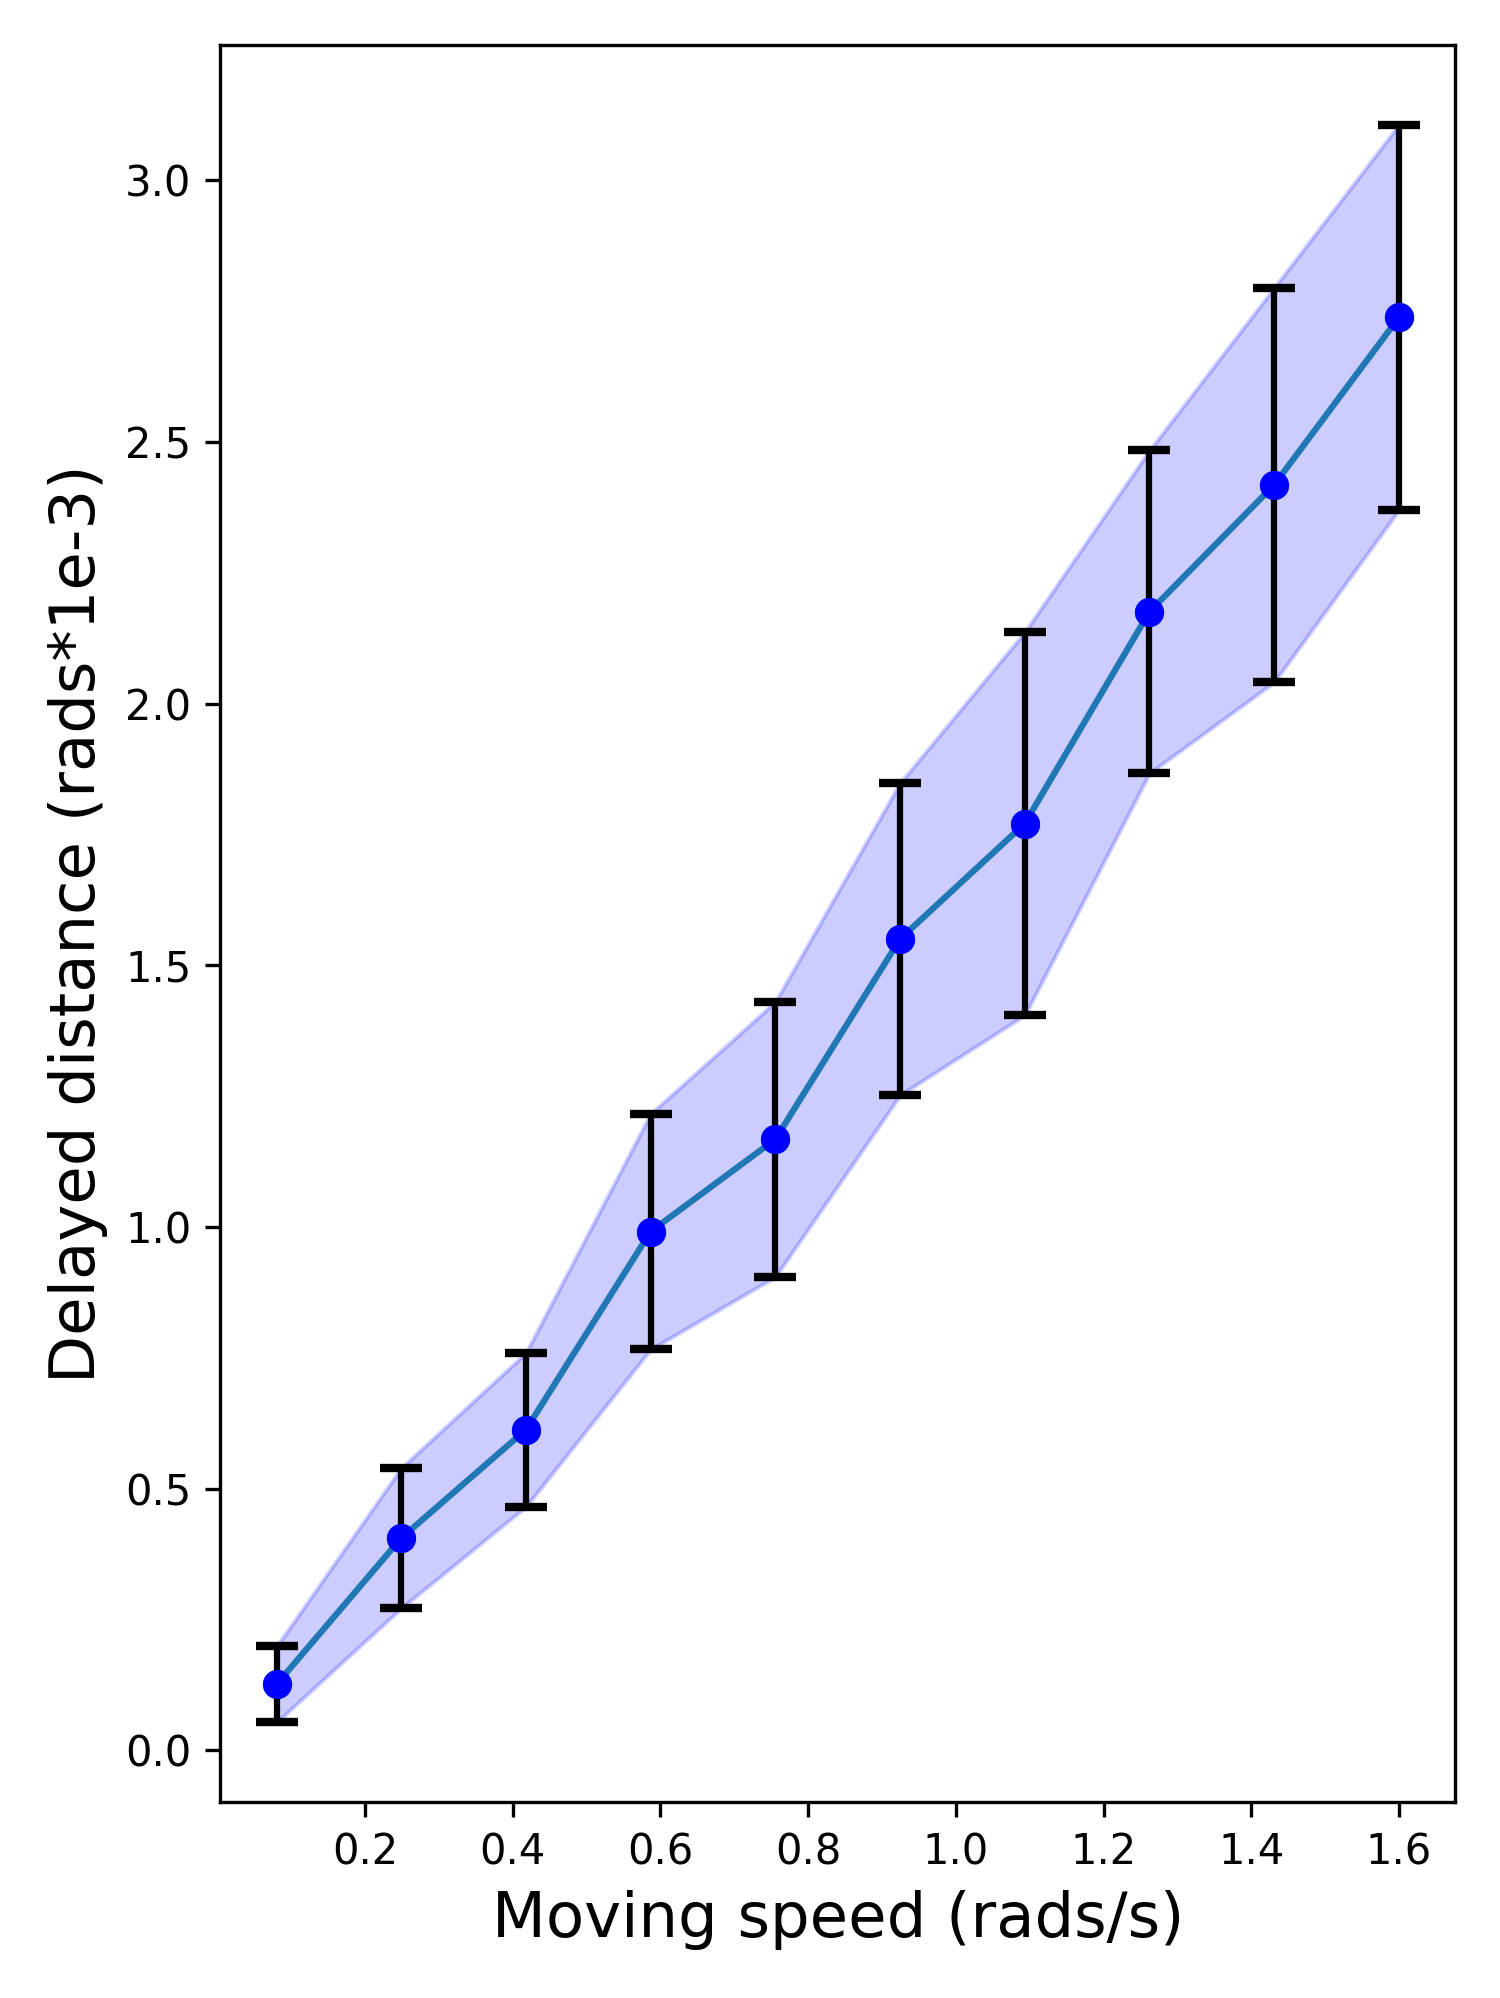
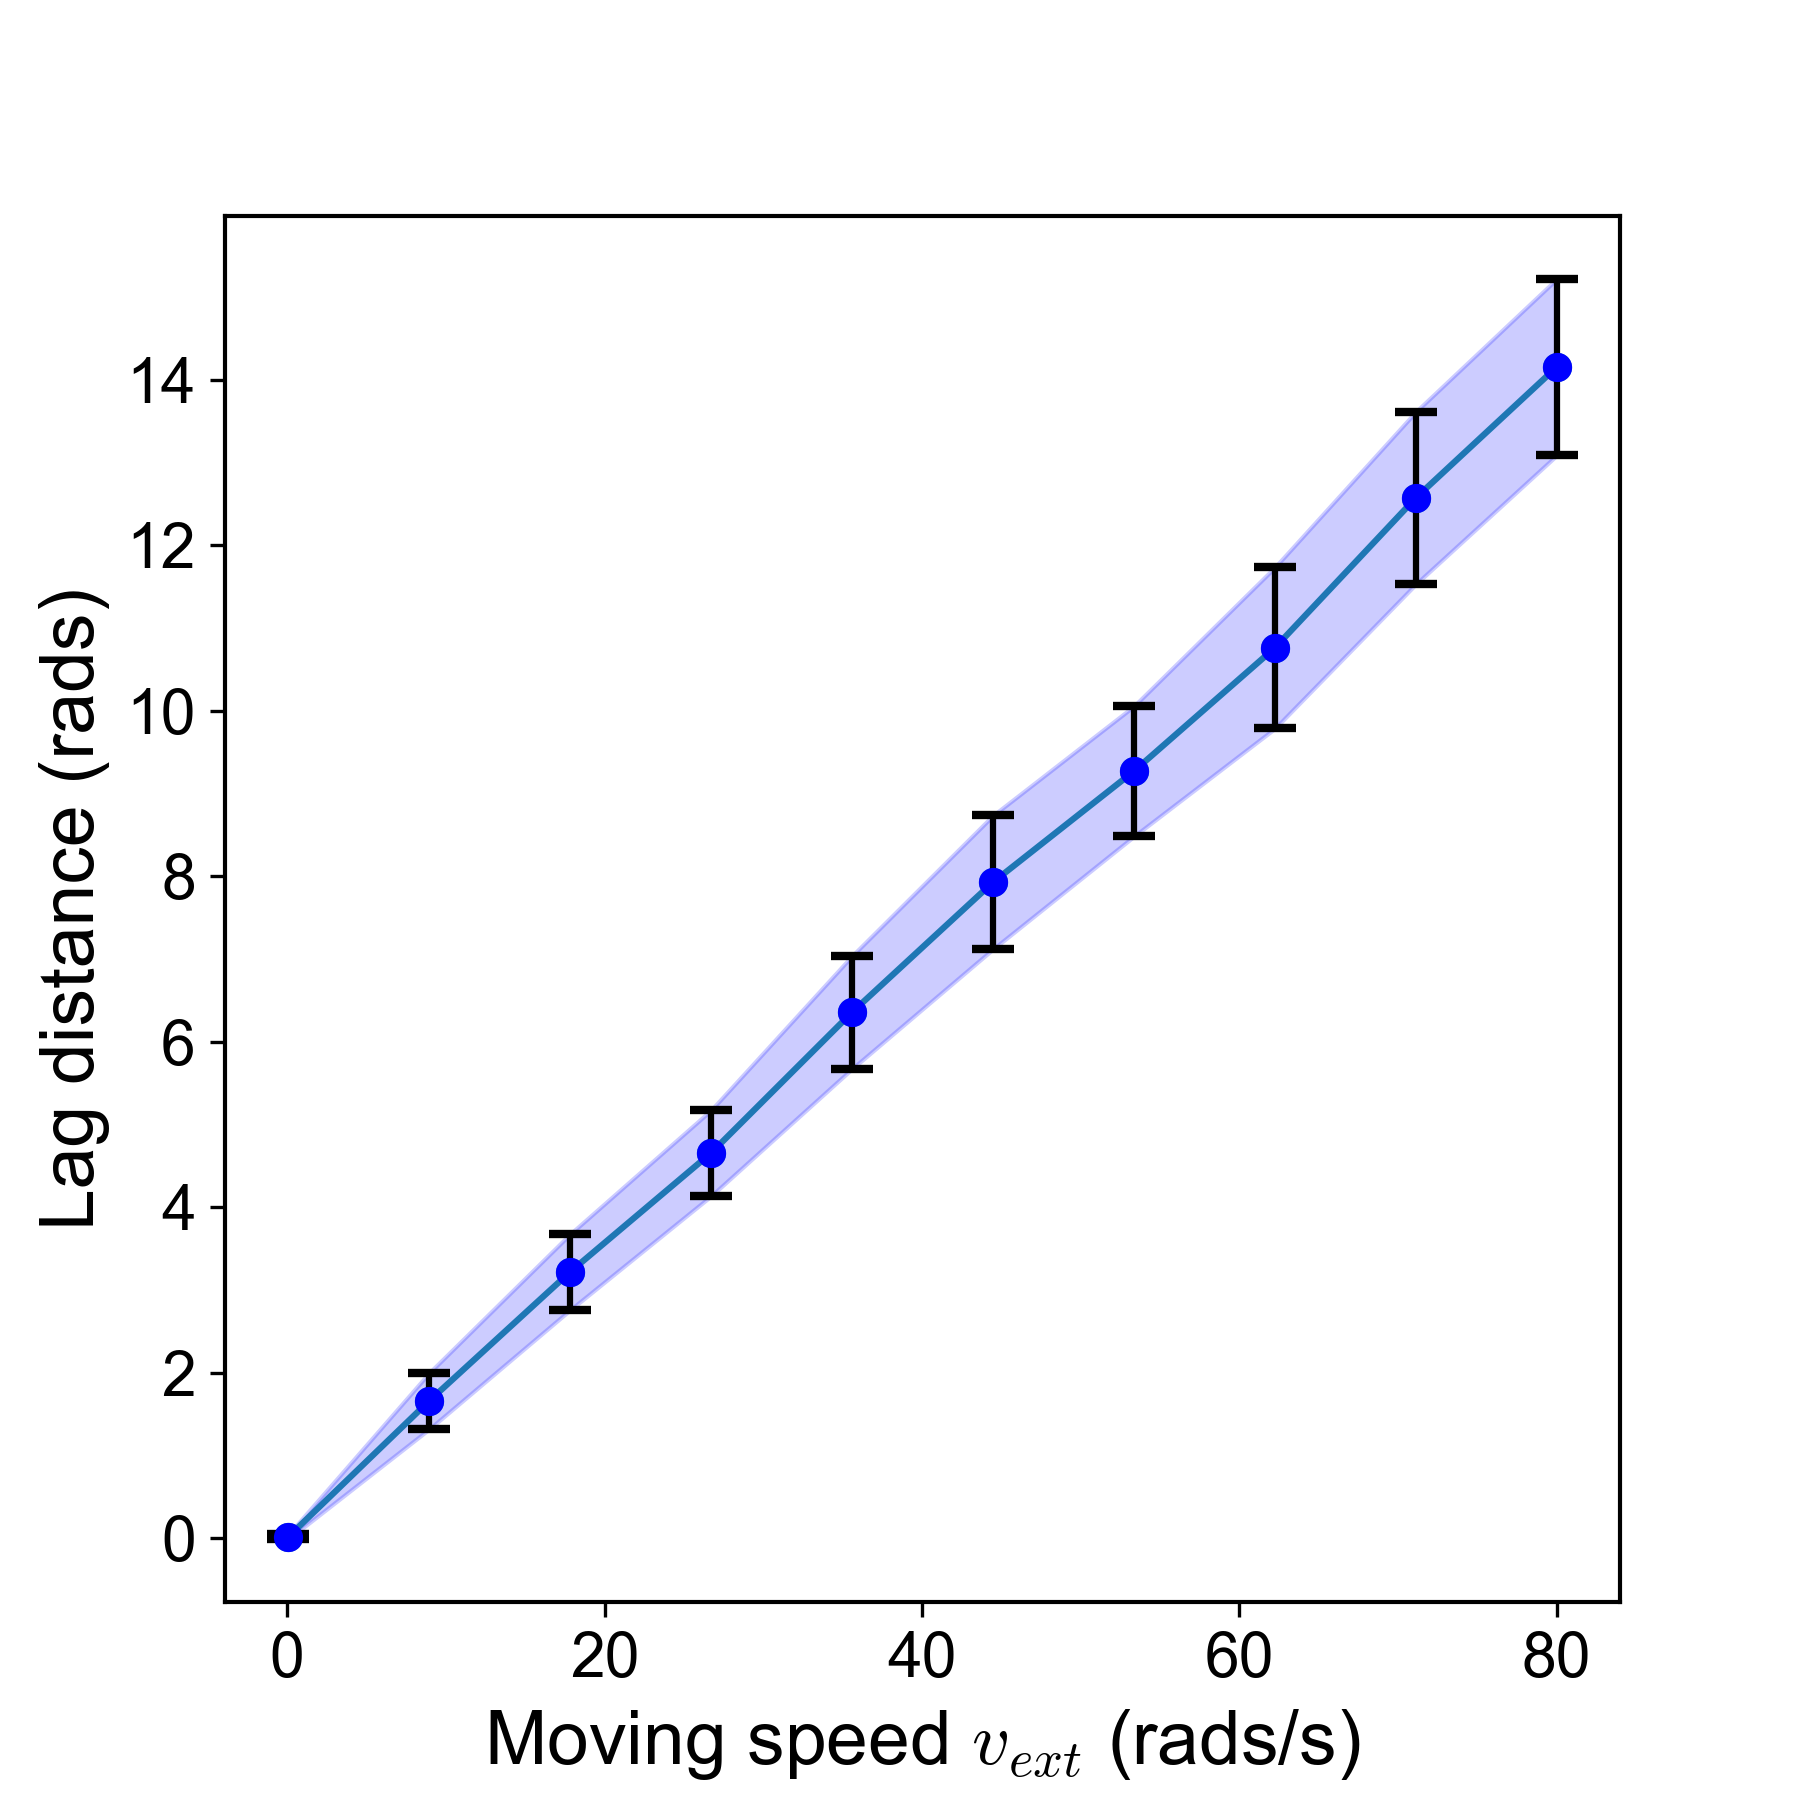
update

Changed region(s): [[0.0307, 0.0311, 0.9813, 0.9956], [0.92, 0.9022, 0.9507, 0.9333]]

diff --git a/Delayed_tracking.py b/Delayed_tracking.py
@@ -5,7 +5,9 @@ import jax
 import seaborn as sns
 import matplotlib.pyplot as plt
 from cann import CANN1D
-
+plt.rcParams ['pdf.fonttype'] = 42
+plt.rcParams ['font.sans-serif'] = ['Arial']
+plt.rcParams['mathtext.fontset'] = 'cm'
 def delayed_track_m(mbar=0):
     import brainpy as bp
     from cann_fft import CANN1D
@@ -59,12 +61,20 @@ plt.scatter(mbar/5, -mean_dis)
 plt.plot(mbar/5, -mean_dis)
 label_size = 18
 tick_size = 15
-plt.xlabel('Adaptation strength', fontsize=label_size)
-plt.ylabel('Delayed distance (1e-3)', fontsize=label_size)
-plt.tight_layout()
+plt.xlabel(r'Adaptation strength $m$', fontsize=label_size)
+plt.ylabel('Lag distance (rads)', fontsize=label_size)
+
+# 设置xtick和ytick的取值
+xticks = np.linspace(0,np.max(mbar/5),4)
+yticks = np.linspace(0,np.max(-mean_dis),4)
+ax.set_xticks(xticks)
+ax.set_yticks(yticks)
 # 设置xtick和ytick的字体大小
 ax.tick_params(axis='x', labelsize=tick_size)
 ax.tick_params(axis='y', labelsize=tick_size)
+
+
+plt.tight_layout()
 fig.savefig('Figures/lag_distance_adaptation.png', dpi=300)
 # plt.show()
 
@@ -120,14 +130,18 @@ ax.errorbar(vext, -mean_dis, yerr=std_dis, fmt='o', color='blue', ecolor='black'
 ax.fill_between(vext, -mean_dis-std_dis, -mean_dis+std_dis, alpha=0.2, color='blue')
 plt.scatter(vext, -mean_dis)
 plt.plot(vext, -mean_dis)
-plt.xlabel('Moving speed (rads/s)', fontsize=label_size)
-plt.ylabel('Delayed distance (rads*1e-3)', fontsize=label_size)
-plt.tight_layout()
+plt.xlabel(r'Moving speed $v_{ext}$ (rads/s)', fontsize=label_size)
+plt.ylabel('Lag distance (rads)', fontsize=label_size)
+
+# 设置xtick和ytick的取值
+xticks = np.linspace(0,np.max(vext),4)
+yticks = np.linspace(0,np.max(-mean_dis),4)
 # 设置xtick和ytick的字体大小
 ax.tick_params(axis='x', labelsize=tick_size)
 ax.tick_params(axis='y', labelsize=tick_size)
 fig.savefig('Figures/lag_distance_adaptation.png', dpi=300)
 fig.savefig('Figures/lag_distance_vext.png', dpi=300)
+plt.tight_layout()
 plt.show()
 
 
